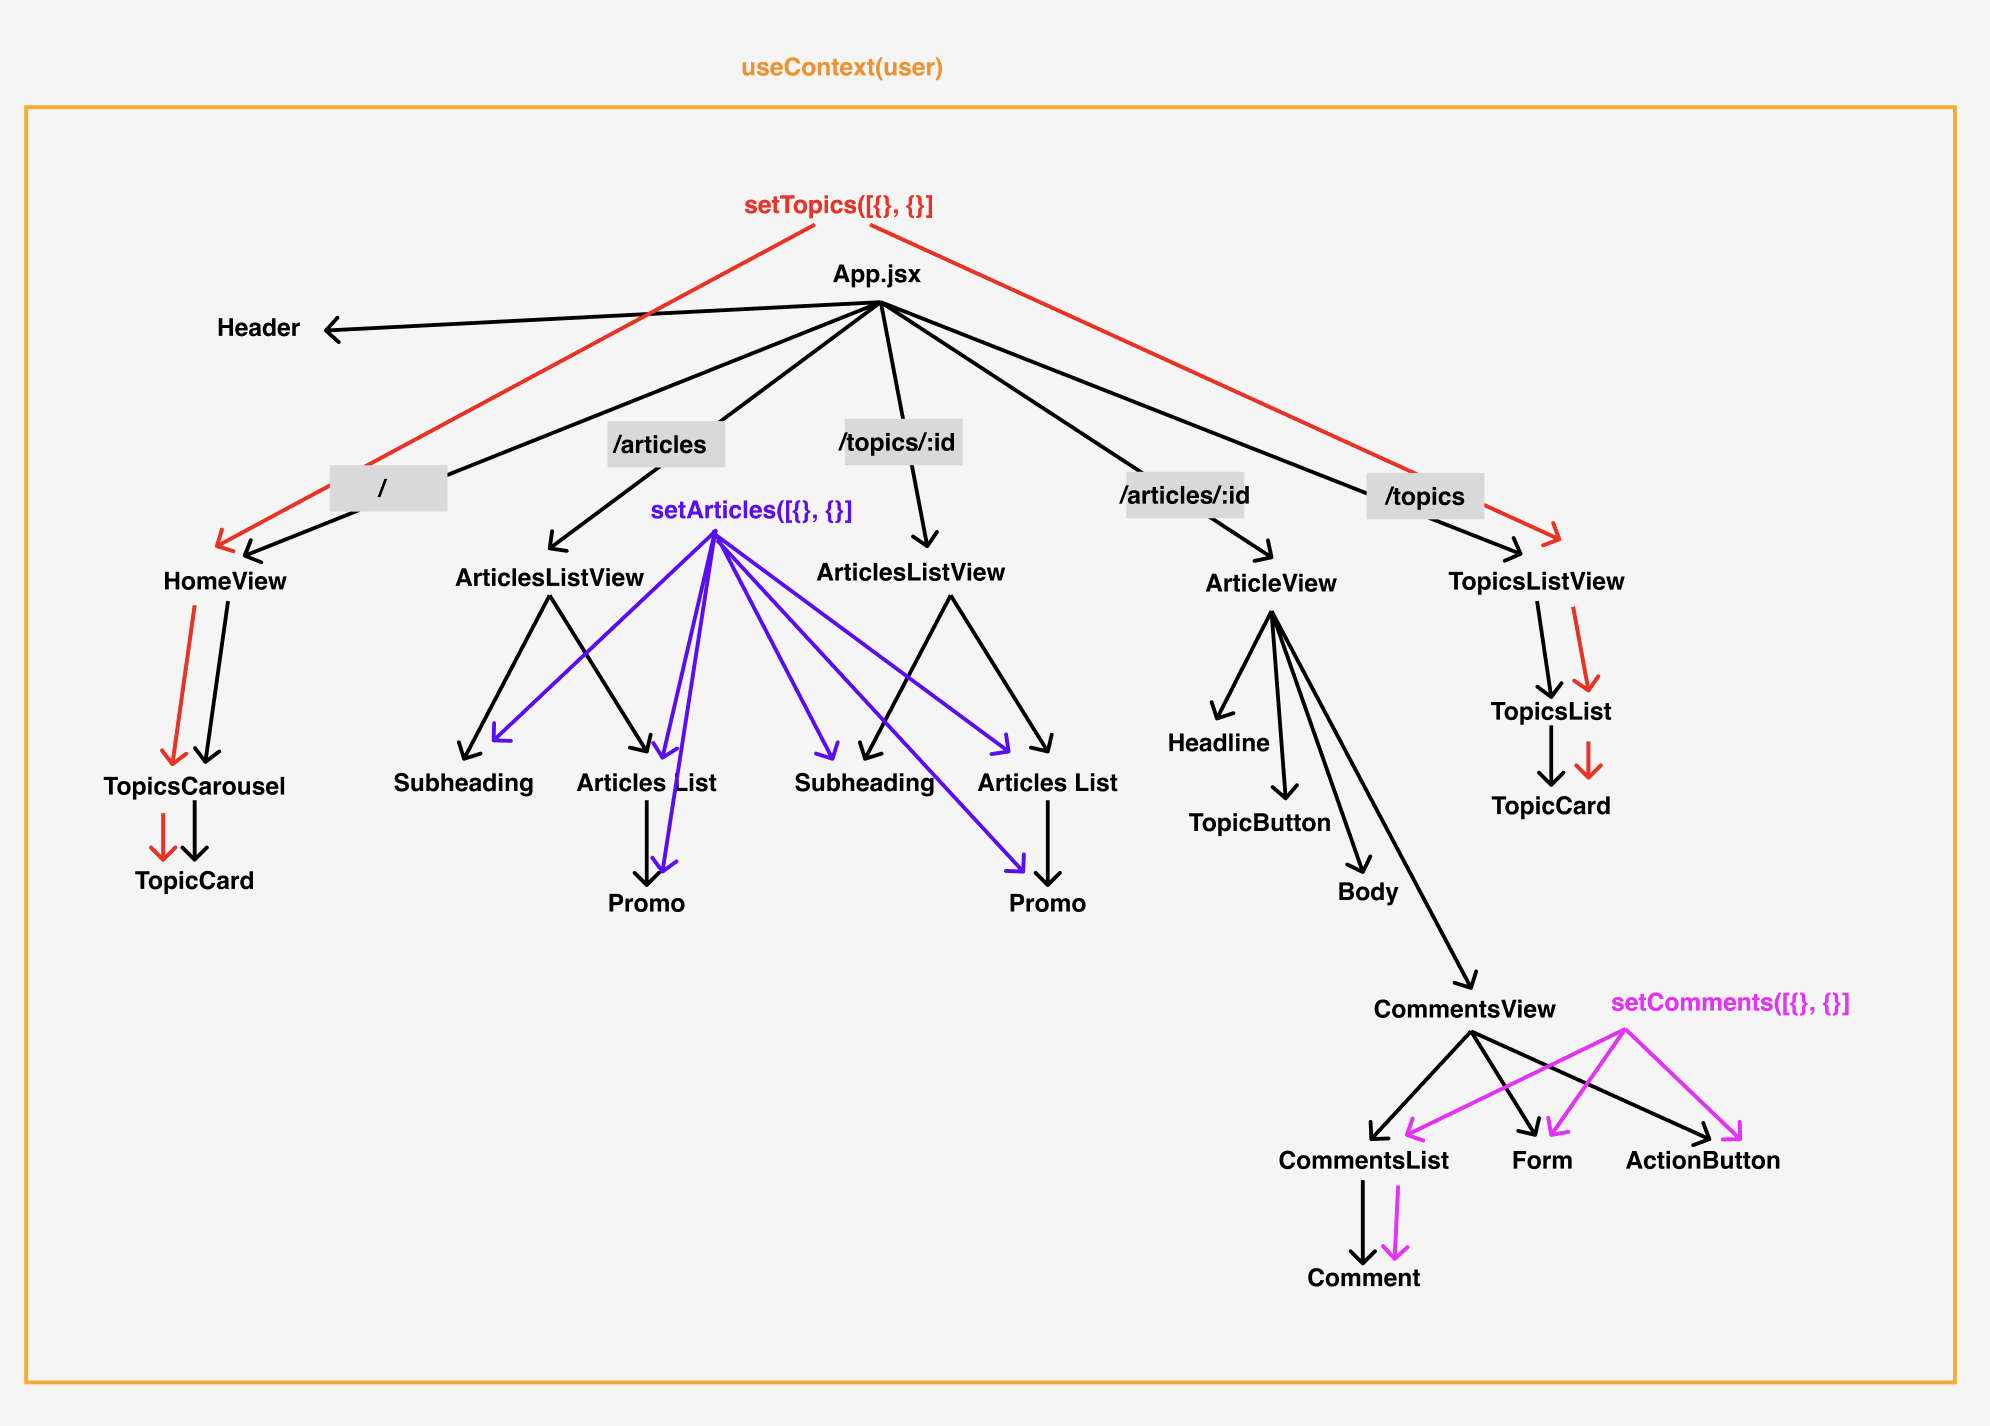
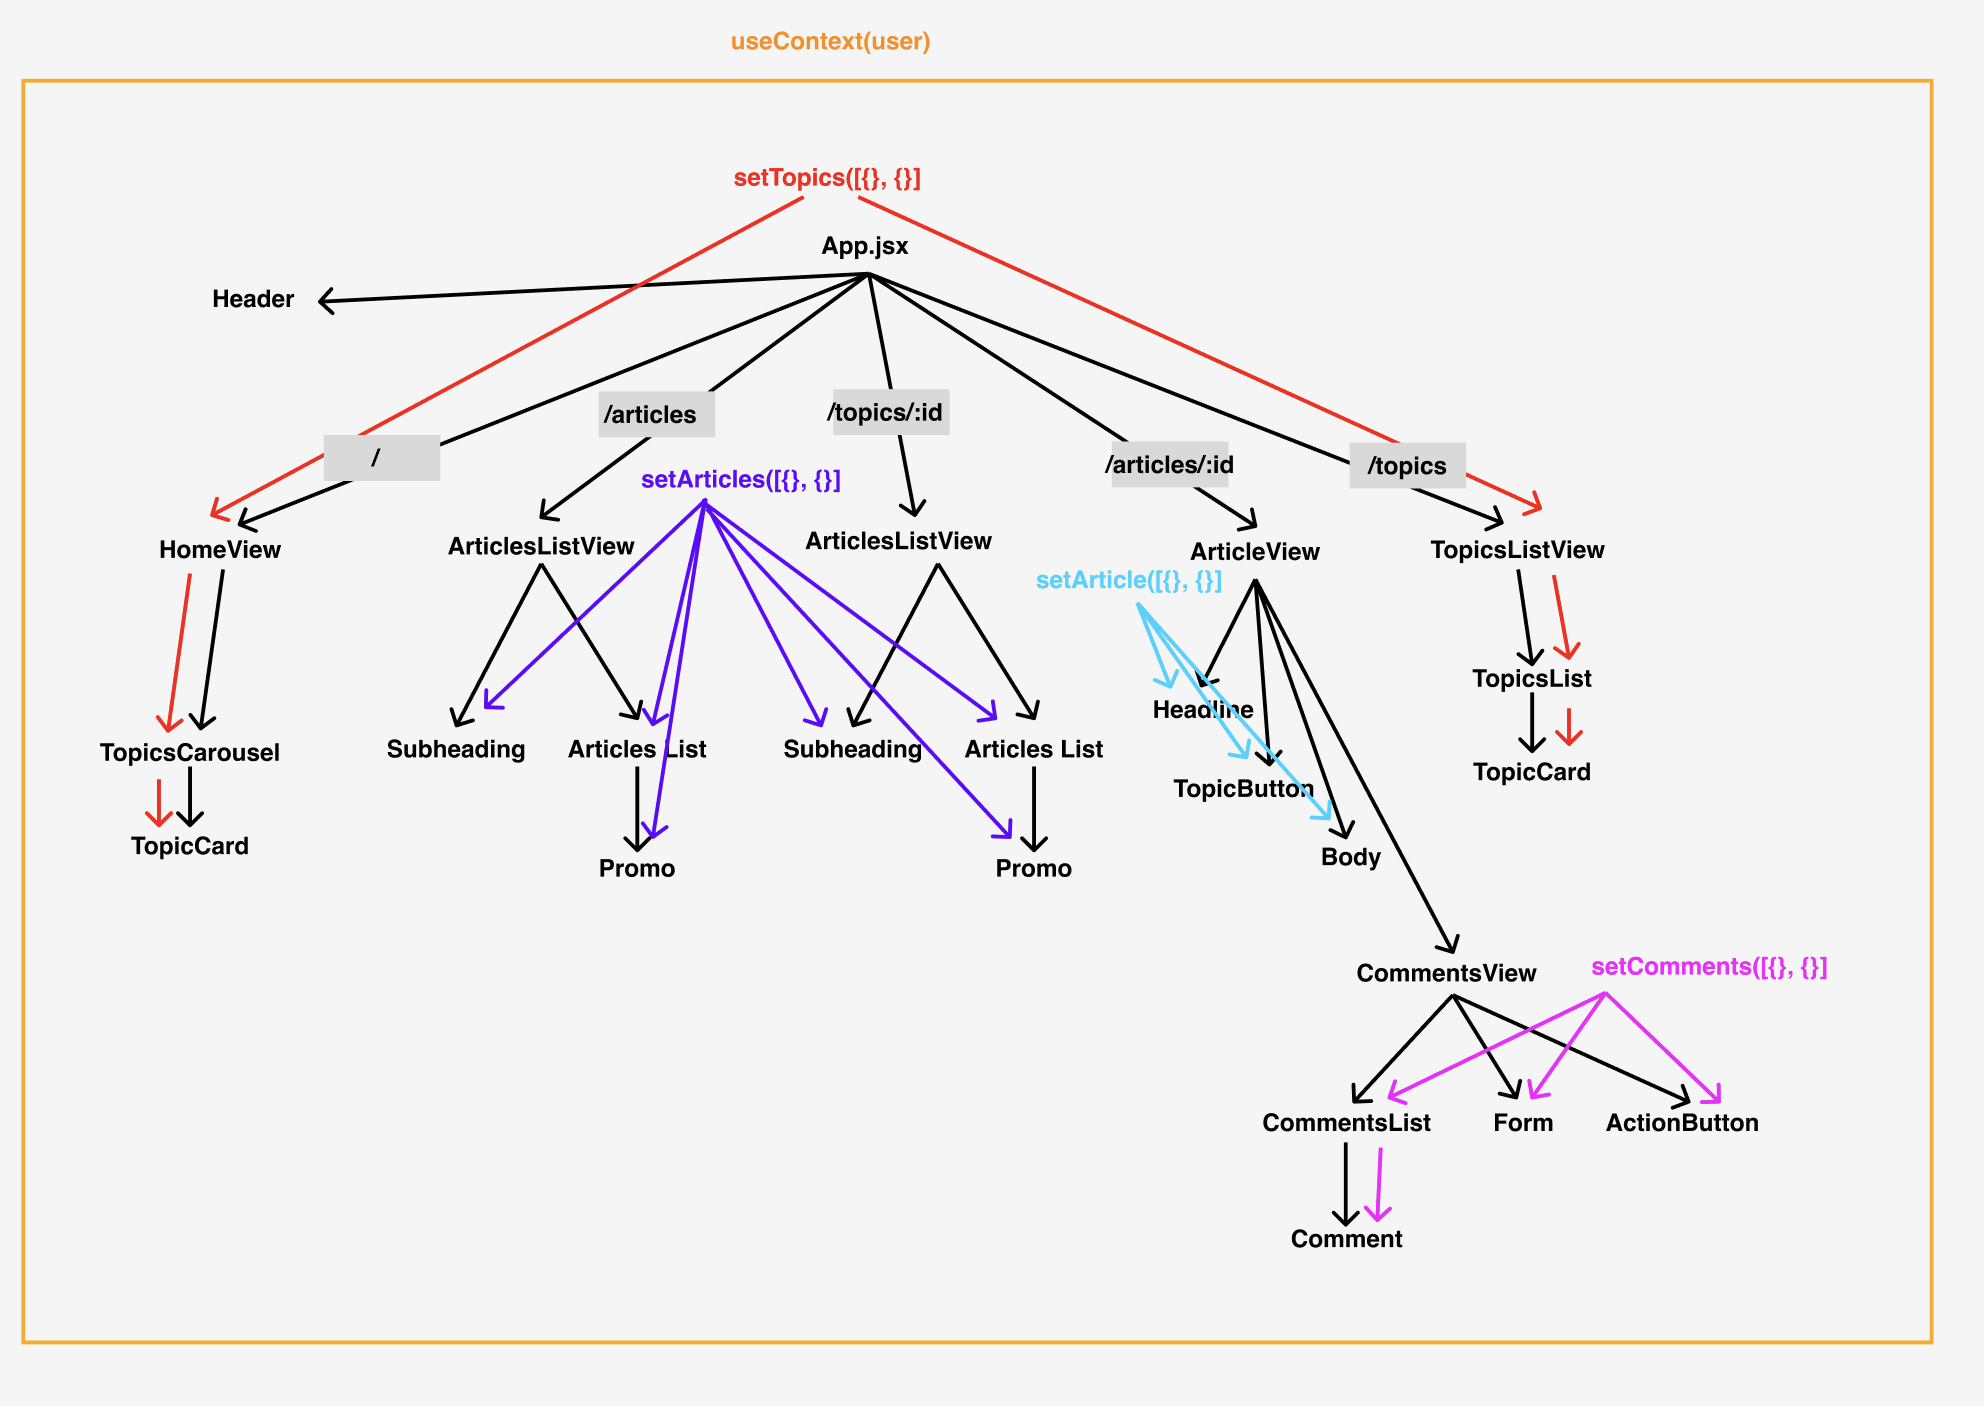
create api.js, add /article/:id and viewing an article

Changed region(s): [[0.0, 0.0, 1.0, 0.9787], [0.625, 0.6422, 0.9375, 0.9175]]

diff --git a/src/Views/ArticlesListView.jsx b/src/Views/ArticlesListView.jsx
@@ -1,11 +1,15 @@
 import axios from 'axios'
 import { useEffect, useState } from 'react'
 import ArticlesList from '../Components/ArticlesList'
+import { getArticles } from '../__utils__/api'
 
 
 export default function ArticlesListView() {
-    const path = 'https://nc-news-w53u.onrender.com/api/articles'
+    
     const [articles, setArticles] = useState([])
+    const [isLoading, setIsLoading] = useState(false)
+    console.log(isLoading)
+
     const dateConfig = {
         year: '2-digit',
         month: 'long',
@@ -15,9 +19,14 @@ export default function ArticlesListView() {
     const todaysDate = new Date().toLocaleDateString(undefined, dateConfig)
 
     useEffect(() => {
-        axios.get(path)
+        setIsLoading(true)
+        getArticles()
         .then((response) => {
-            setArticles(response.data.articles)
+            setArticles(response)
+            setIsLoading(false)
+        })
+        .catch((error) => {
+            console.log(error)
         })
     }, [])
 

diff --git a/src/Views/ArticleView.jsx b/src/Views/ArticleView.jsx
@@ -1,0 +1,27 @@
+import { useEffect, useState } from "react"
+import { useParams } from "react-router-dom"
+import { getArticle } from "../__utils__/api"
+
+export default function ArticleView() {
+    const { id } = useParams()
+    const [article, setArticle] = useState({})
+    const [isLoading, setIsLoading] = useState(false)
+
+    useEffect(() => {
+        setIsLoading(true)
+        getArticle(id)
+        .then(({article}) => {
+            setIsLoading(false)
+            setArticle(article)
+        })
+    }, [])
+
+    return <>
+        <h1>{article.title}</h1>
+        <h6>by {article.author}</h6>
+        <p>{article.votes} votes, {article.comment_count} comments</p>
+        <img src={article.article_img_url}></img>
+        <div>{article.topic}</div>
+        <article>{article.body}</article>
+    </>
+}

diff --git a/src/Components/Promo.jsx b/src/Components/Promo.jsx
@@ -1,14 +1,18 @@
-export default function Promo({ title, img, timestamp, comments, votes }) {
+import { Link } from "react-router-dom"
+
+export default function Promo({ id, title, img, timestamp, comments, votes }) {
     const dateConfig = {
         year: '2-digit',
         month: 'long',
         day: '2-digit'
     }
     const formattedTimestamp = new Date(timestamp).toLocaleDateString(undefined, dateConfig)
+
+    const path = `/articles/${id}`
     
     return <>
         <img src={img} />
-        <h3>{title}</h3>
+        <Link to={path}><h4>{title}</h4></Link>
         <p>{formattedTimestamp}</p>
         <p>{comments} comments</p>
         <p>{votes} votes</p>

diff --git a/src/App.jsx b/src/App.jsx
@@ -7,6 +7,7 @@ import './App.css'
 import Header from './Components/Header'
 import ArticlesListView from './Views/ArticlesListView'
 import HomeView from './Views/HomeView'
+import ArticleView from './Views/ArticleView'
 
 function App() {
 
@@ -16,6 +17,7 @@ function App() {
       <Routes>
         <Route path="/" element={<HomeView />}/>
         <Route path="/articles" element={<ArticlesListView />}/>
+        <Route path="/articles/:id" element={<ArticleView/>}/>
       </Routes>
     </>
   )

diff --git a/src/__utils__/api.js b/src/__utils__/api.js
@@ -1,0 +1,17 @@
+import axios from 'axios'
+
+export const getArticles = () => {
+    const path = 'https://nc-news-w53u.onrender.com/api/articles'
+    return axios.get(path)
+        .then((response) => {
+            return response.data.articles
+        })
+}
+
+export const getArticle = (id) => {
+    const path = `https://nc-news-w53u.onrender.com/api/articles/${id}`
+    return axios.get(path)
+    .then((response) => {
+        return response.data
+    })
+}

diff --git a/src/Components/ArticlesList.jsx b/src/Components/ArticlesList.jsx
@@ -6,6 +6,7 @@ export default function ArticlesList({ articles }) {
         {articles.map((article) => {
             return <li className='promo' key={article.article_id}>
                 <Promo 
+                    id={article.article_id}
                     img={article.article_img_url}
                     title={article.title} 
                     timestamp={article.created_at} 
